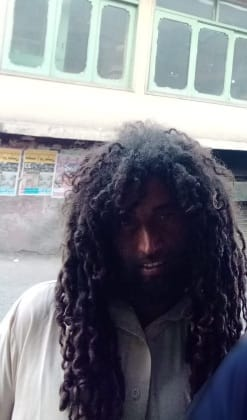
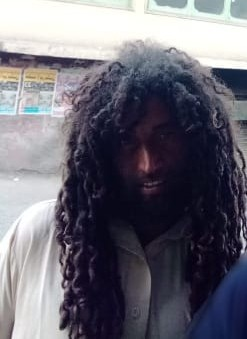
Restore natural before/after mapping for 3rd success story; update images

diff --git a/index.html b/index.html
@@ -371,11 +371,11 @@
         <article class="story-card">
           <div class="story-card__images">
             <figure class="story-card__before">
-              <img src="Assets%20Home%20page/Success%20Stories%20images/3after.jpeg" alt="">
+              <img src="Assets%20Home%20page/Success%20Stories%20images/3before.jpeg" alt="">
               <figcaption>Before</figcaption>
             </figure>
             <figure class="story-card__after">
-              <img src="Assets%20Home%20page/Success%20Stories%20images/3before.jpeg" alt="">
+              <img src="Assets%20Home%20page/Success%20Stories%20images/3after.jpeg" alt="">
               <figcaption>After</figcaption>
             </figure>
             <span class="story-card__arrow" aria-hidden="true">

diff --git a/stories.html b/stories.html
@@ -135,11 +135,11 @@
         <article class="story-card">
           <div class="story-card__images">
             <figure class="story-card__before">
-              <img src="Assets%20Home%20page/Success%20Stories%20images/3after.jpeg" alt="">
+              <img src="Assets%20Home%20page/Success%20Stories%20images/3before.jpeg" alt="">
               <figcaption>Before</figcaption>
             </figure>
             <figure class="story-card__after">
-              <img src="Assets%20Home%20page/Success%20Stories%20images/3before.jpeg" alt="">
+              <img src="Assets%20Home%20page/Success%20Stories%20images/3after.jpeg" alt="">
               <figcaption>After</figcaption>
             </figure>
             <span class="story-card__arrow" aria-hidden="true"><svg><use href="#i-arrow"/></svg></span>

diff --git a/story.html b/story.html
@@ -188,8 +188,8 @@
         after:  'Assets%20Home%20page/Success%20Stories%20images/2after.png',
       },
       pair3: {
-        before: 'Assets%20Home%20page/Success%20Stories%20images/3after.jpeg',
-        after:  'Assets%20Home%20page/Success%20Stories%20images/3before.jpeg',
+        before: 'Assets%20Home%20page/Success%20Stories%20images/3before.jpeg',
+        after:  'Assets%20Home%20page/Success%20Stories%20images/3after.jpeg',
       },
     };
 